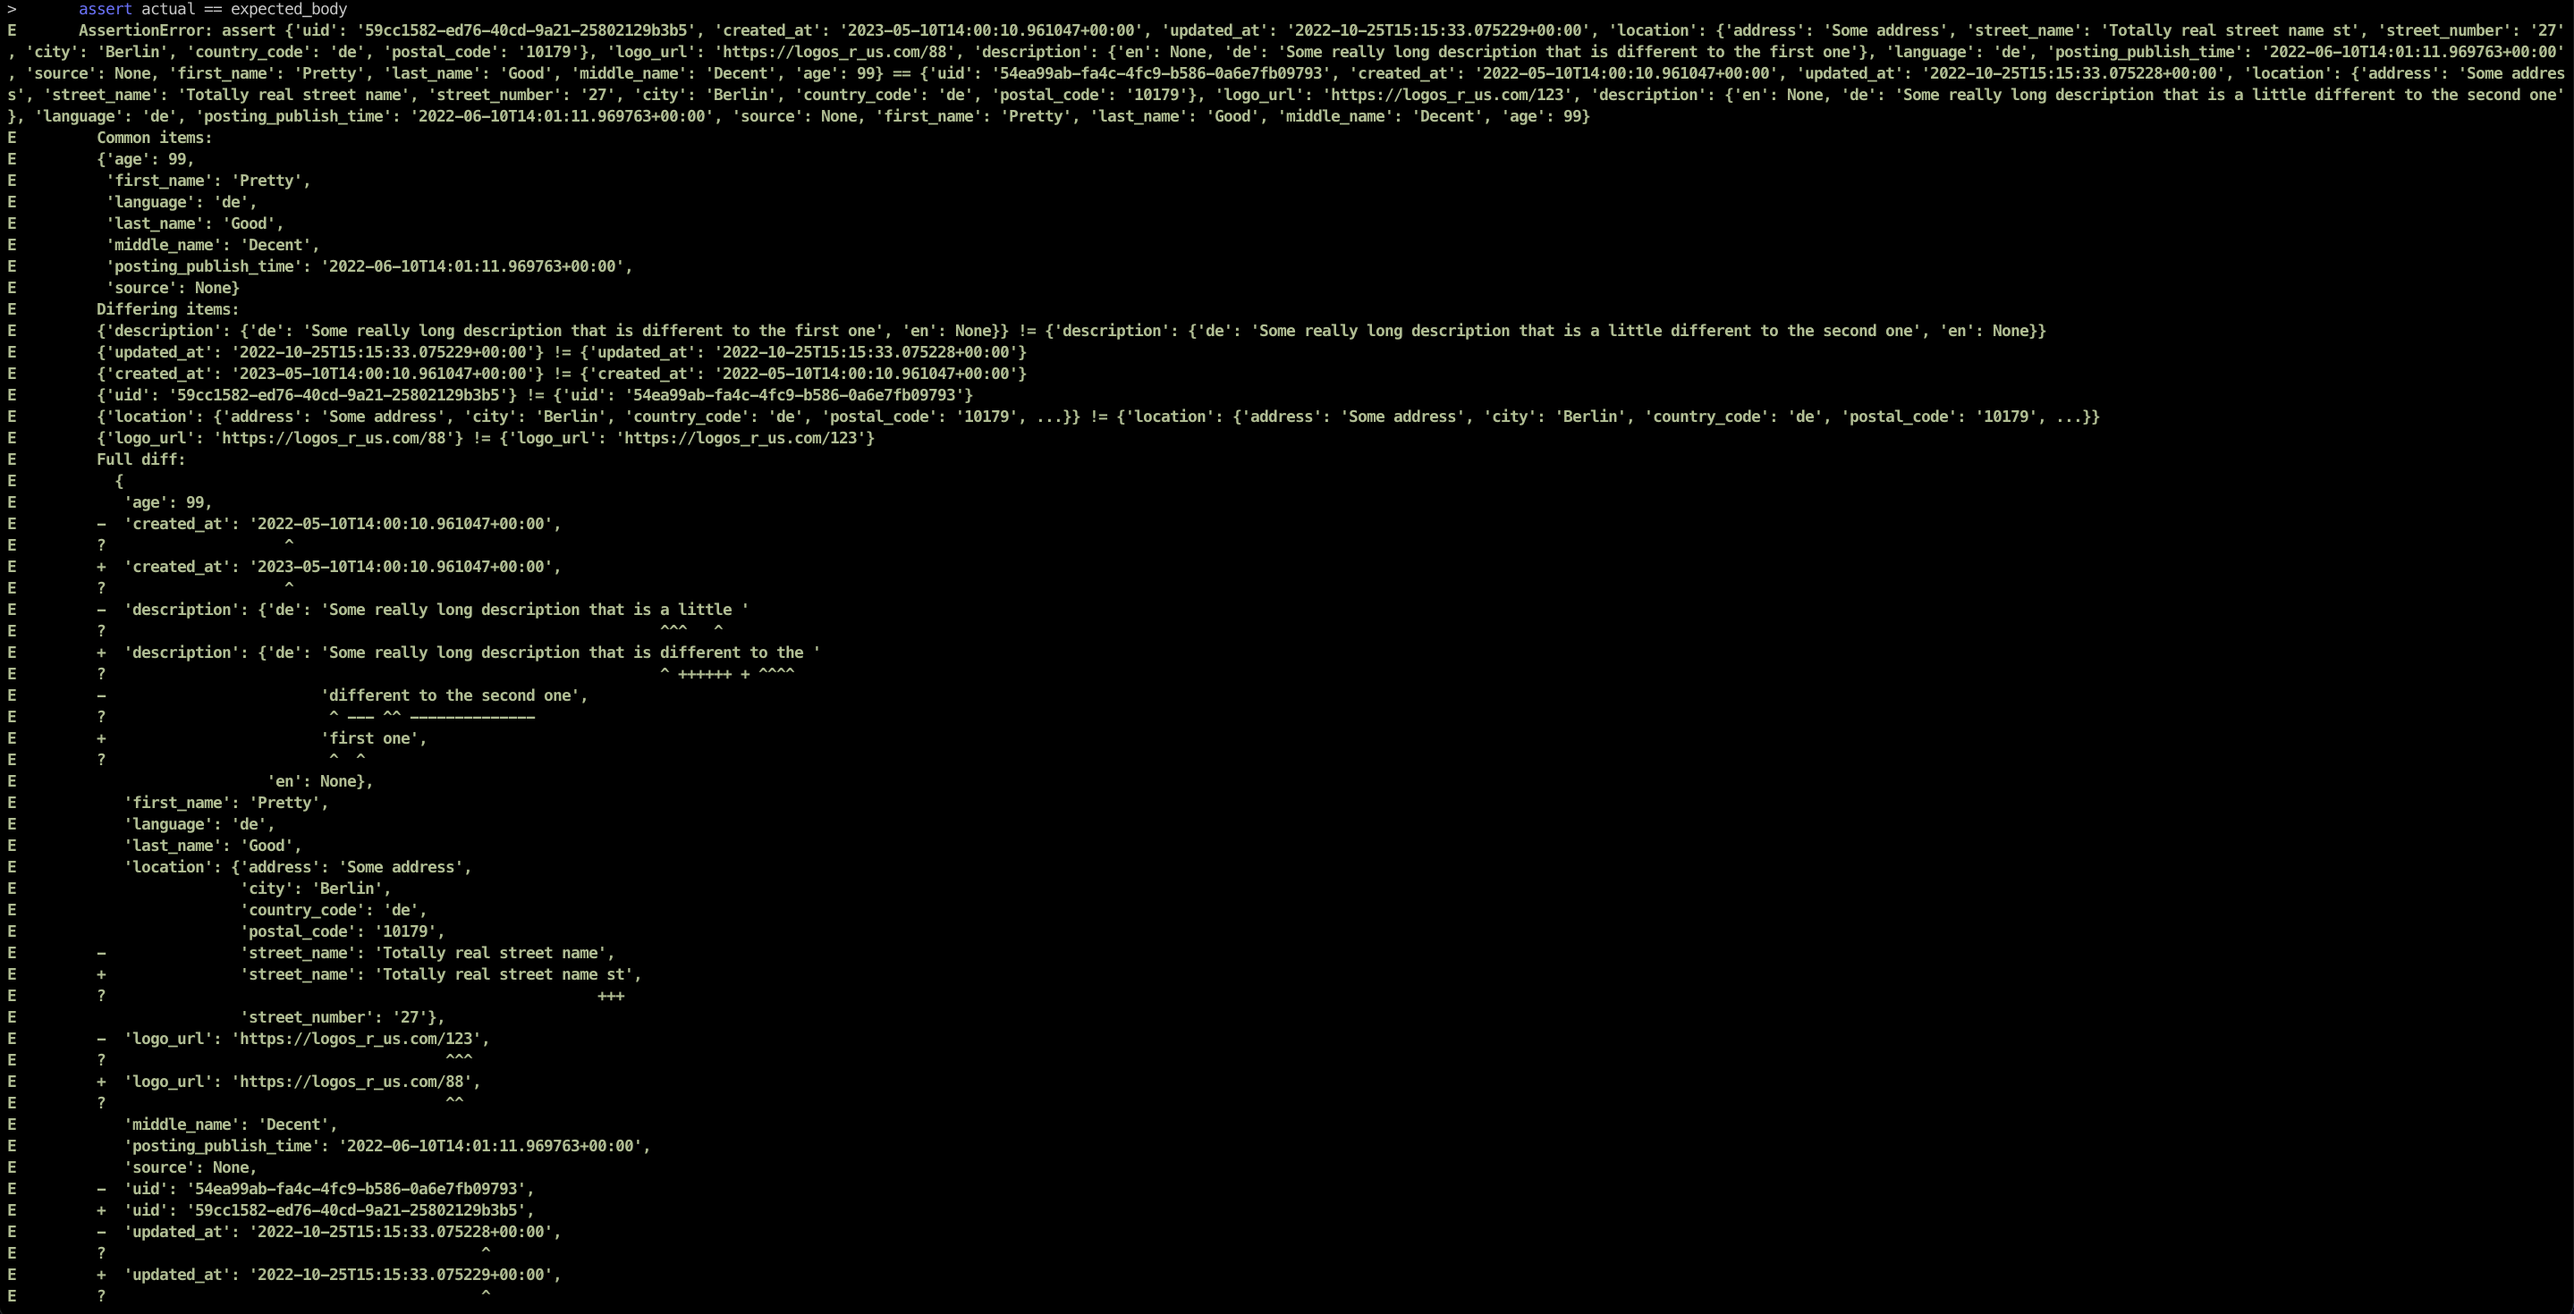
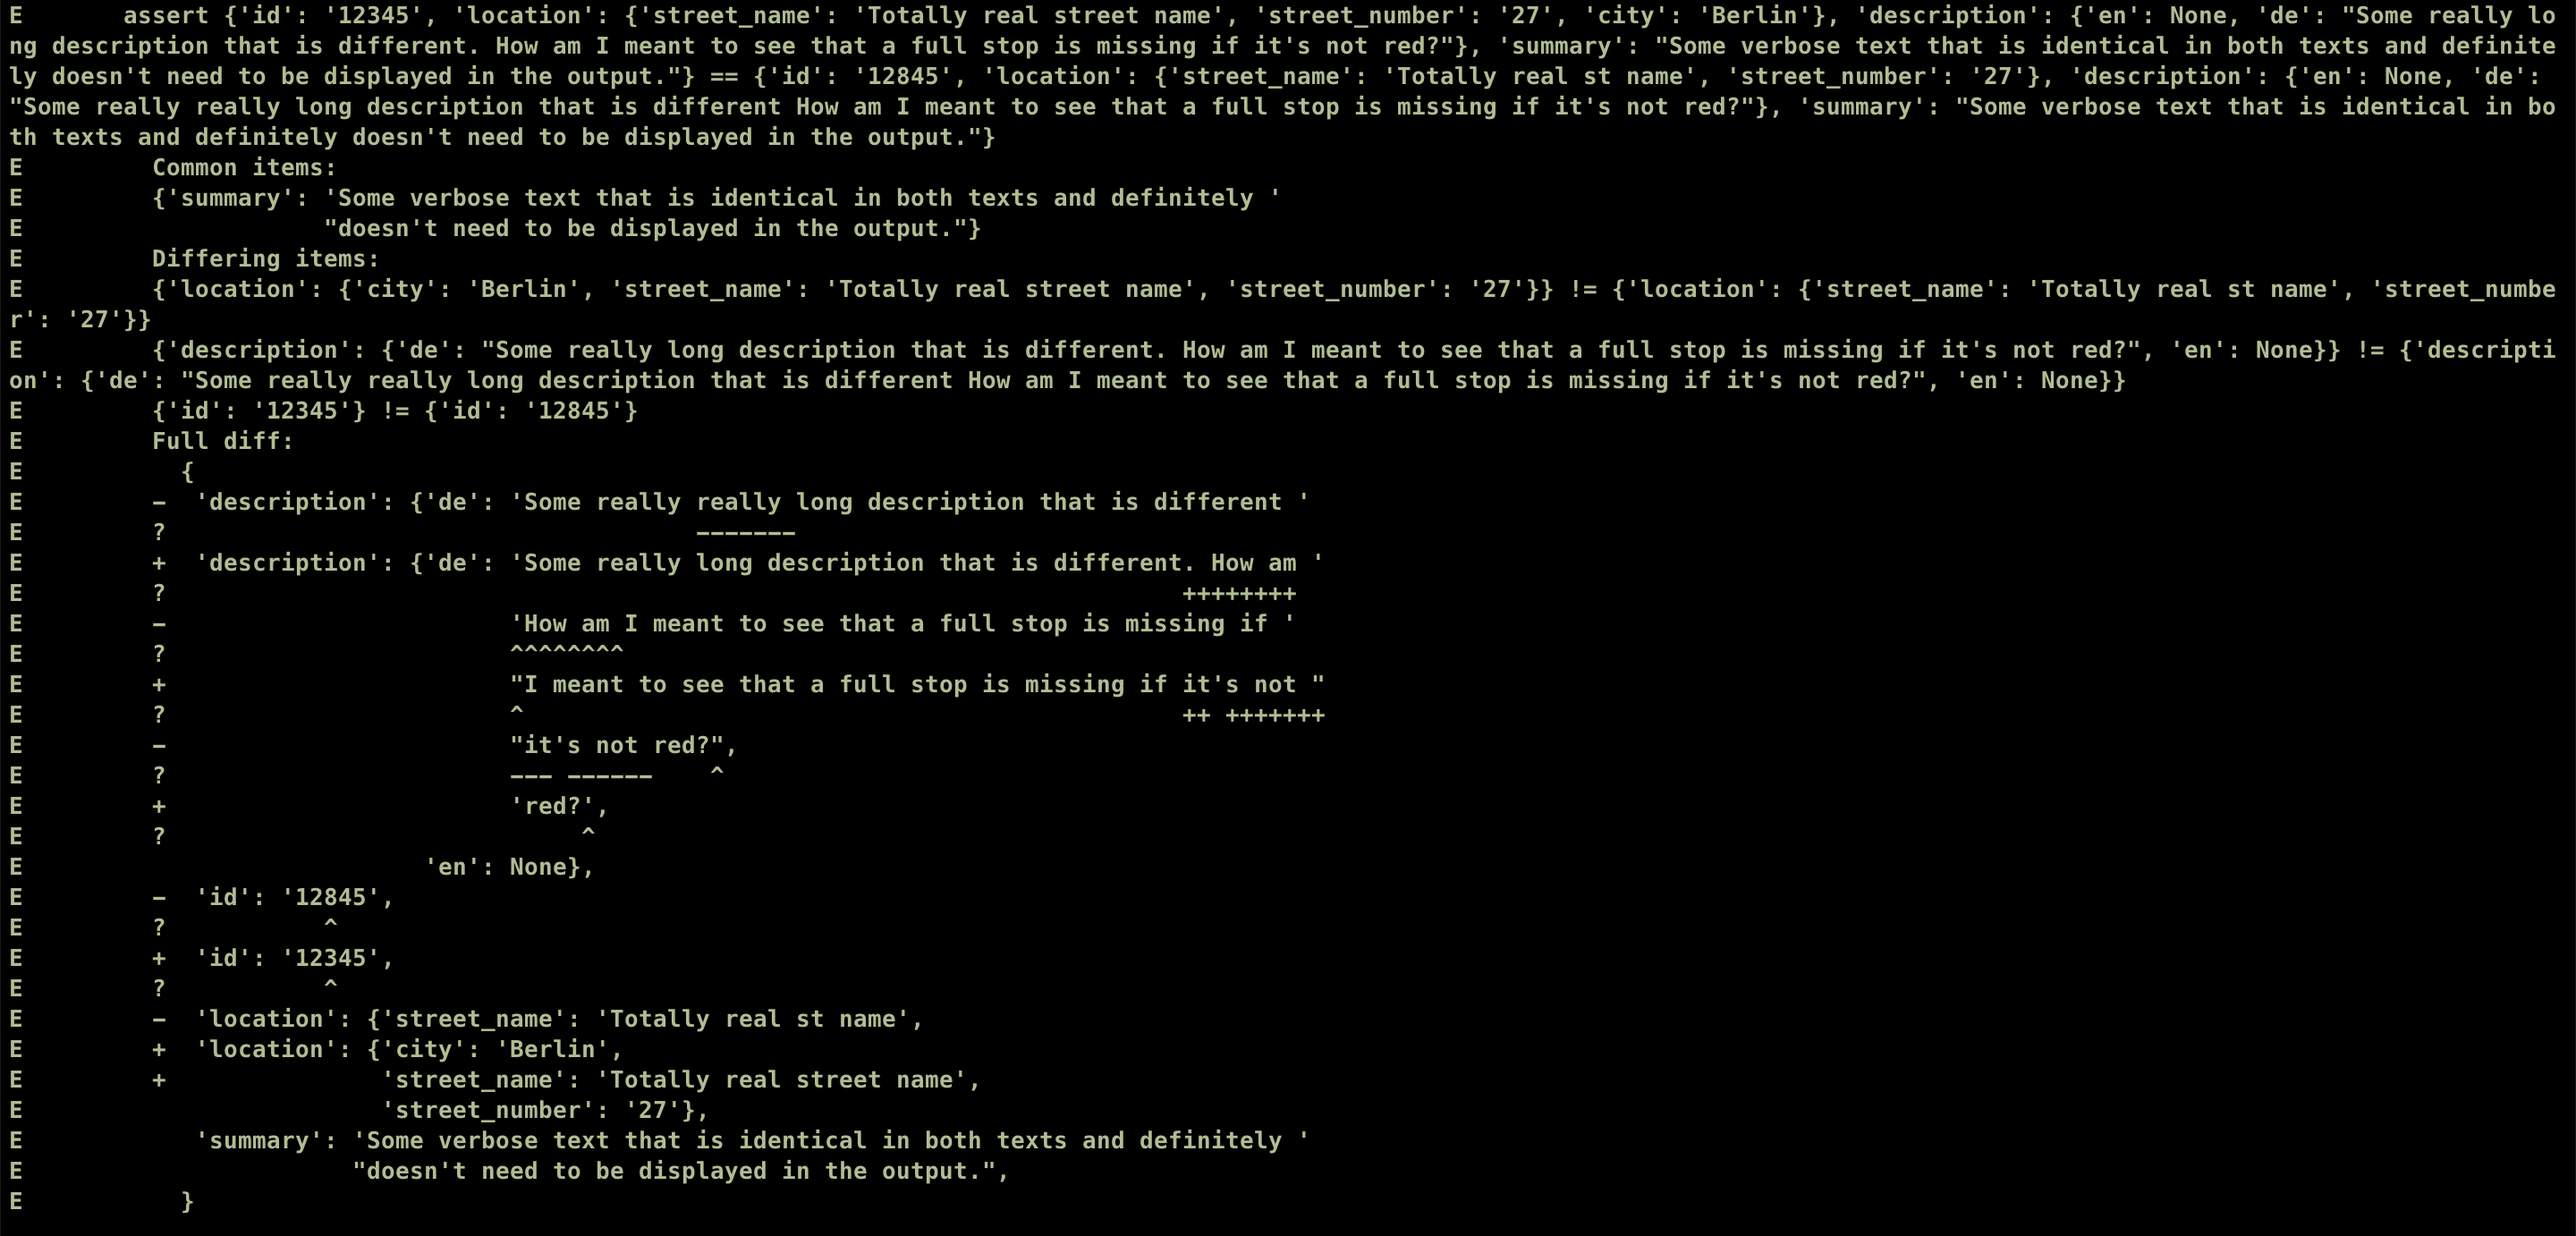
Update README.md
Also update a test case used to generate screenshots for the README

diff --git a/tests/test_output.py b/tests/test_output.py
@@ -23,8 +23,9 @@ def test_output_with_nested_dictionary_with_string_difference():
         },
         "description": {
             "en": None,
-            "de": "Some really long description that is different.",
+            "de": "Some really long description that is different. How am I meant to see that a full stop is missing if it's not red?",
         },
+        "summary": "Some verbose text that is identical in both texts and definitely doesn't need to be displayed in the output.",
     }
 
     second_dict = {
@@ -35,8 +36,9 @@ def test_output_with_nested_dictionary_with_string_difference():
         },
         "description": {
             "en": None,
-            "de": "Some really really long description that is different",
+            "de": "Some really really long description that is different How am I meant to see that a full stop is missing if it's not red?",
         },
+        "summary": "Some verbose text that is identical in both texts and definitely doesn't need to be displayed in the output.",
     }
 
     diff = get_diff(first_dict, second_dict)

diff --git a/README.md b/README.md
@@ -9,7 +9,6 @@ Just call `show_diff(first_object, second_object)` to see a colored diff of the 
 Before:
 ![alt text](blob/ugly_diff.png?raw=true)
 
-
 After:
 ![alt text](blob/pretty_good_diff.png?raw=true)
 
@@ -19,8 +18,35 @@ After:
 Alternatively, for comparing dictionaries or Pydantic objects, if you want to have a dictionary containing tuples with the differing values/fields of the first and second object respectively, call `get_diff(first_object, second_object)`.
 For example:
 ```
->> first_object = {"a": 1, "b": 2}
->> second_object = {"a": 1, "b": 3}
+>> first_object = {
+    "a": 123,
+    "b": {
+        "c": "zzz",
+        "d": "xxx",
+        "e": {"f": None, "g": 6, "h": 5, "i": "ababc"},
+    },
+    "i": 456,
+    "j": 1,
+}
+>> second_object = {
+    "a": 123,
+    "b": {"c": "zzz", "d": "yyy", "e": {"f": 4, "g": 6, "i": "abcde"}},
+    "i": 789,
+    "k": 2,
+}
 >> get_diff(first_object, second_object)
-{"b": (2, 3)}
+{
+    "b": {
+        "d": [],
+        "e": {
+            "f": (None, 4),
+            "h": (5, sentinel),
+            "i": [(2, 0), (3, 1), (4, 2)],
+        },
+    },
+    "i": (456, 789),
+    "j": (1, sentinel),
+    "k": (sentinel, 2),
+}
 ```
+(string diffs are represented as lists of tuples that map the indices of matching characters between strings)
